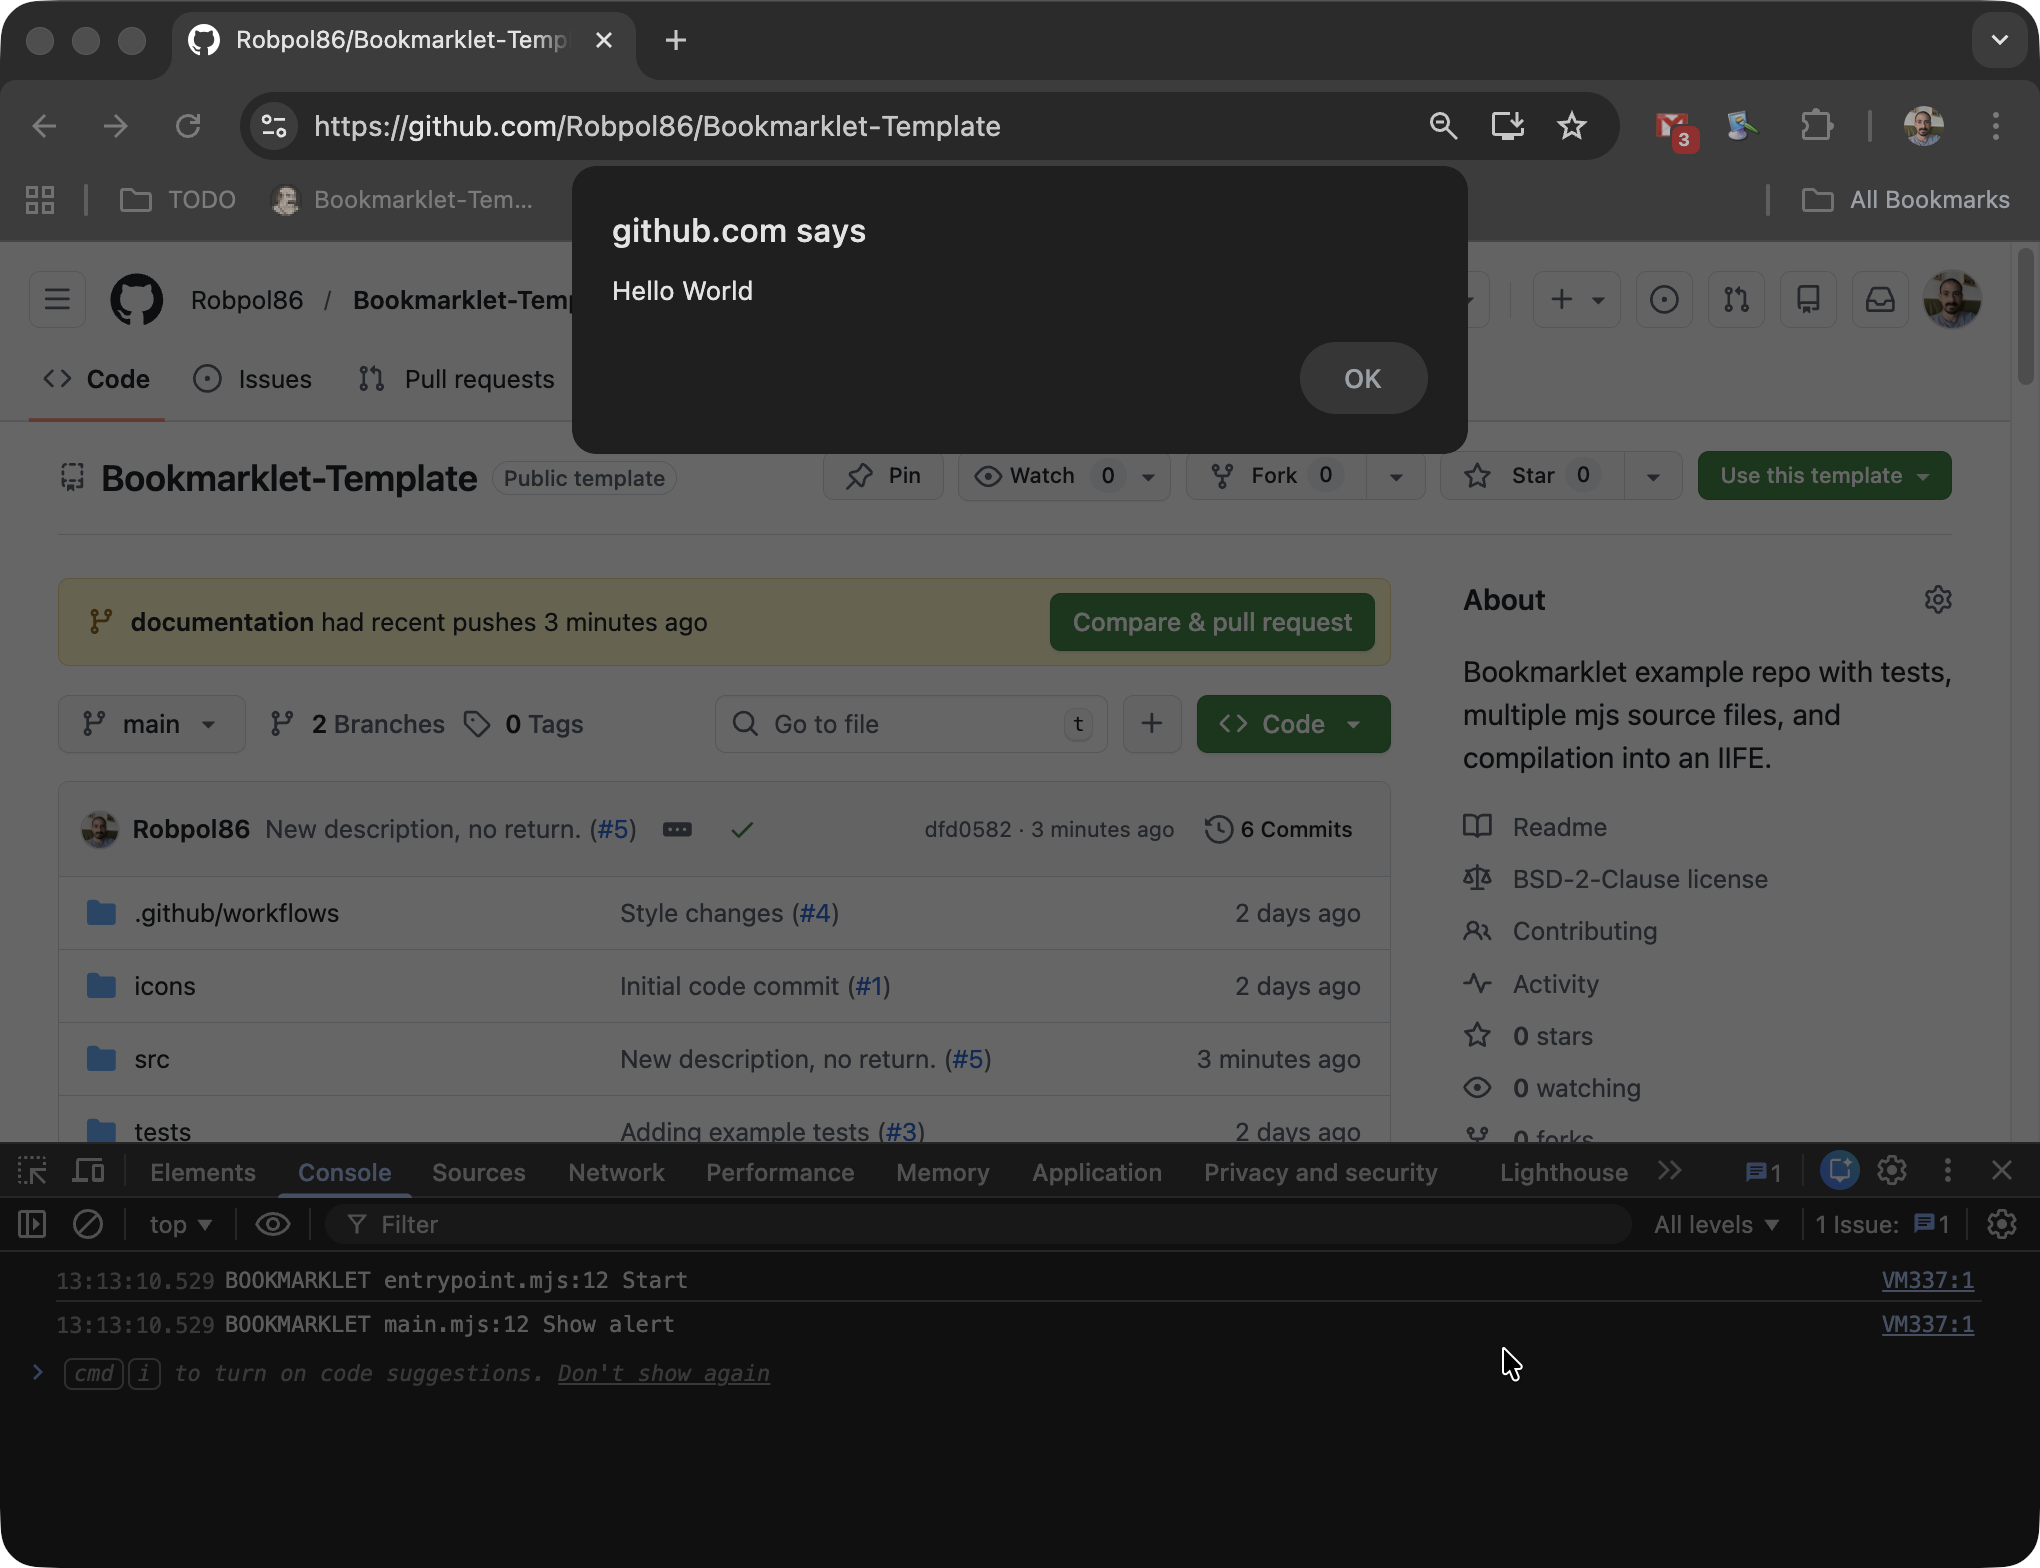
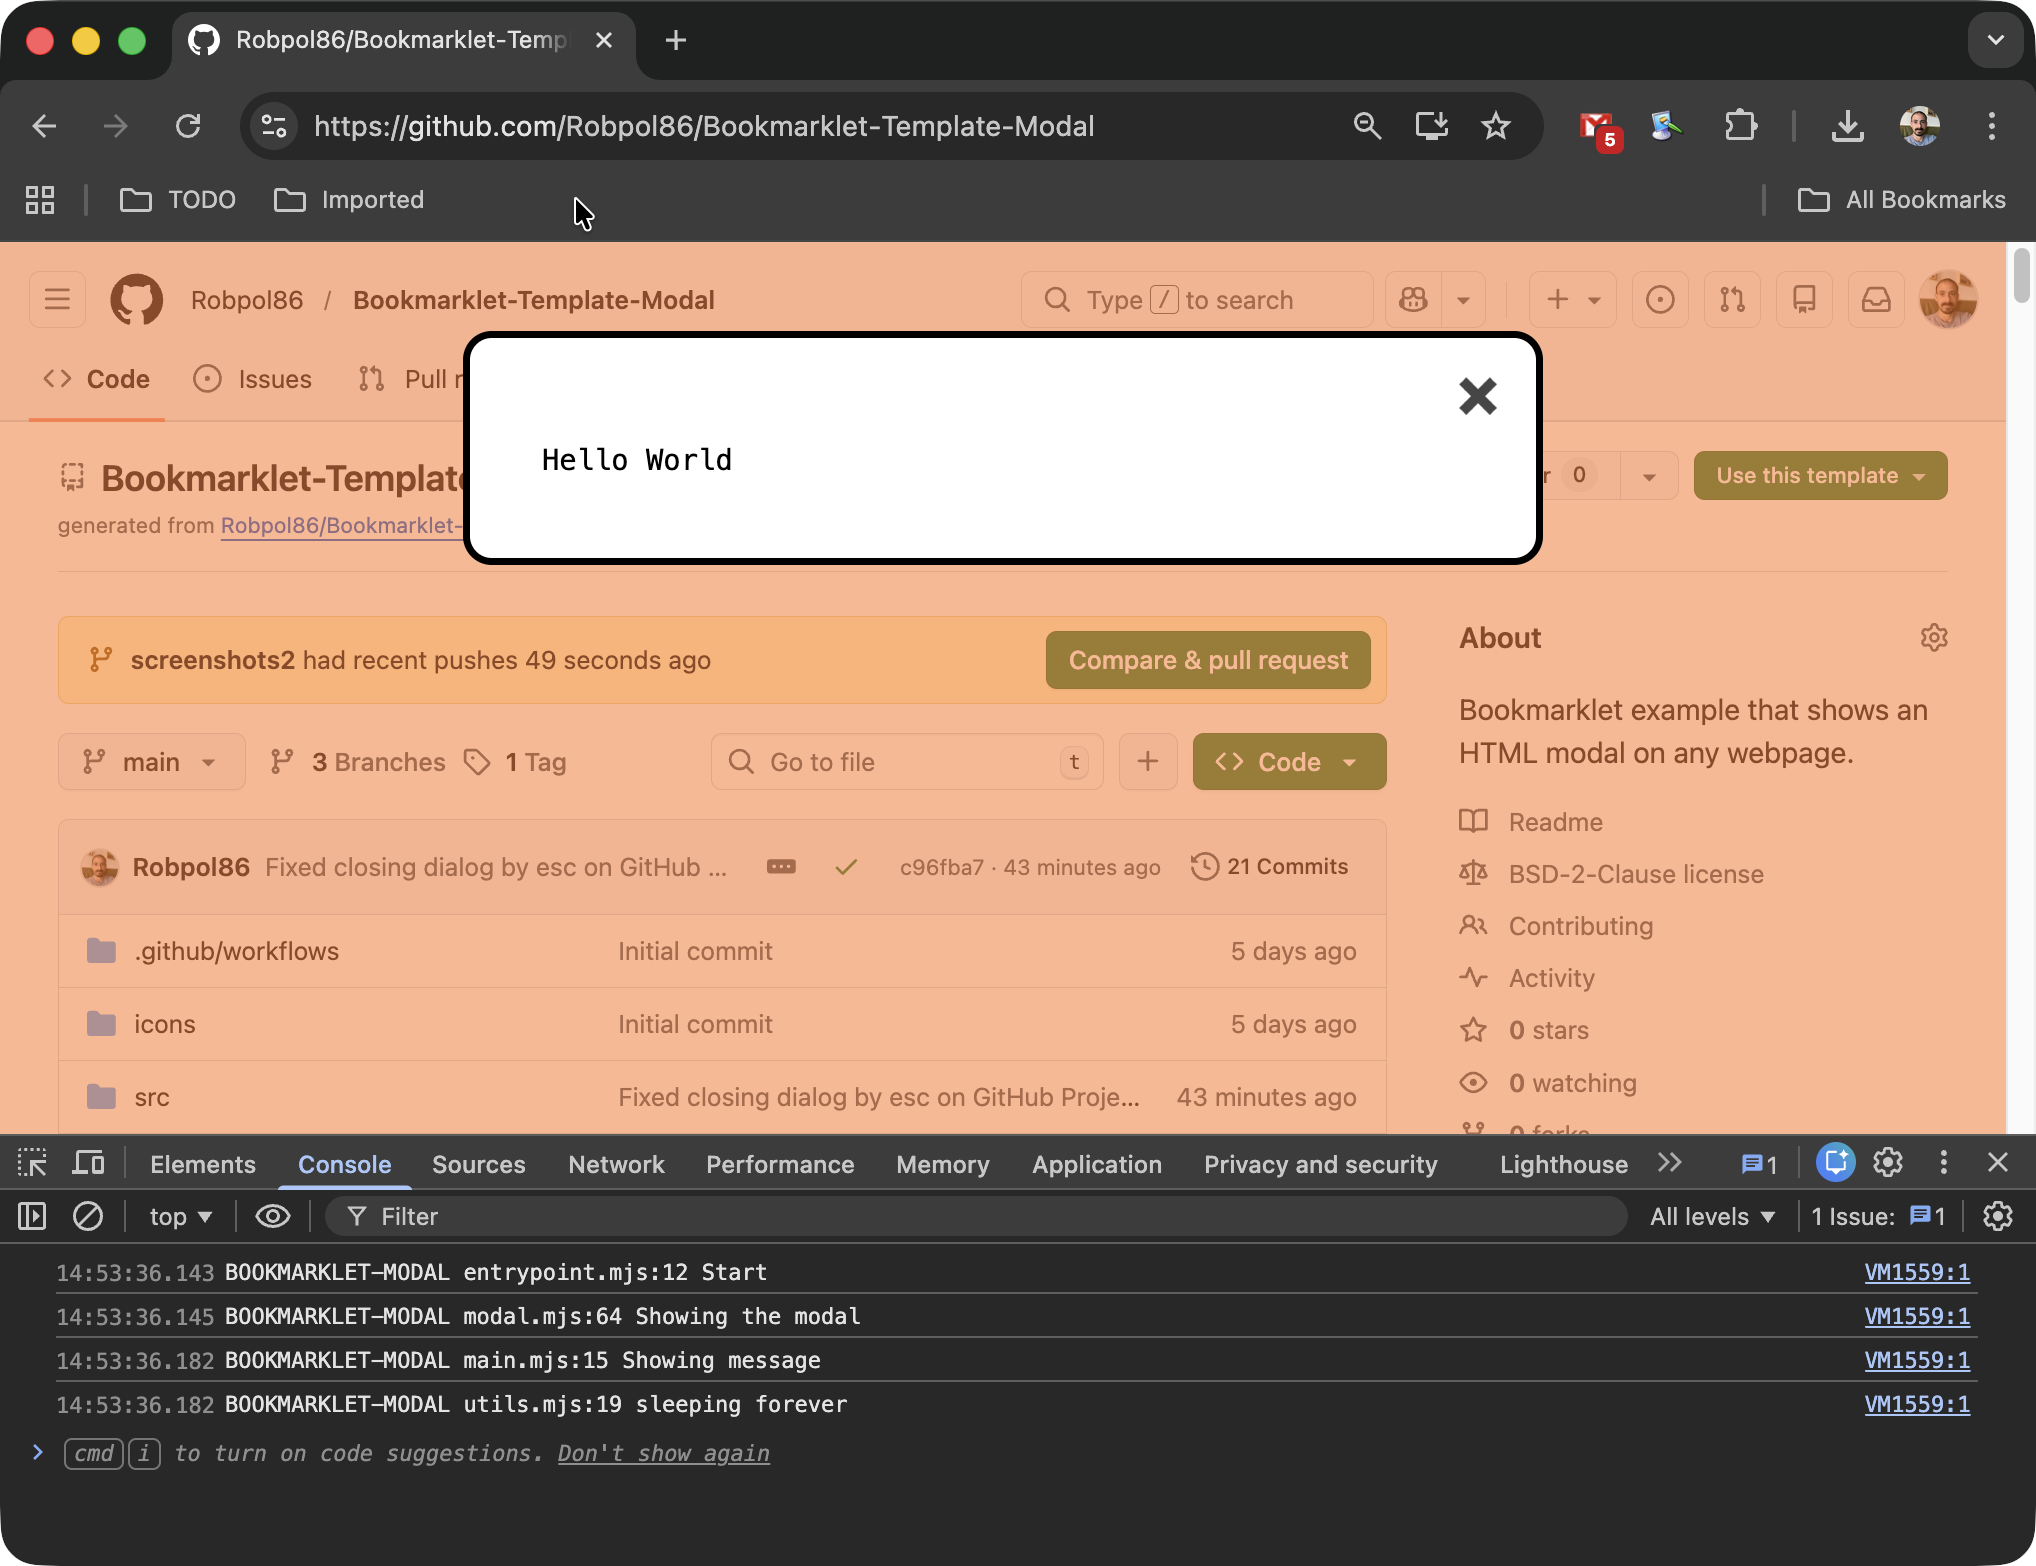
Screenshots for macOS browsers (#19)
* park

* Rewrote 3 numbered points

* prune

* showing/removing modal log message

* New for chrome macos

* Update ss

* update firefox macos

* BUG

* AI fix

* pruned

* done pruning

* chrome macos

* ff macos

* done with macos

diff --git a/src/modal.scss b/src/modal.scss
@@ -56,6 +56,7 @@ $body: "div##{$prefix}dialog-body";
     #{$closeButtonX} {
         background: none;
         border: none;
+        color: #000;
         font-size: 2rem;
         margin: 0;
         position: absolute;

diff --git a/README.md b/README.md
@@ -108,51 +108,22 @@ Some features I've included in this project are:
 For more information on developing a bookmarklet using this repo as a template read the [CONTRIBUTING.md](CONTRIBUTING.md)
 document.
 
-## Install
+## Installing the Bookmarklet
 
-There are three ways to install the bookmarklet.
+There are three ways to install the bookmarklet:
 
-### Import Bookmarks HTML Method
+1. Import the
+   [dist/bookmarklets.html](https://github.com/Robpol86/Bookmarklet-Template-Modal/releases/latest/download/bookmarklet.html)
+   file using the browser's bookmarks manager (in Chrome and Edge the bookmarklet will have its own favicon)
+2. Manually crearte a new bookmark with the contents of
+   [dist/bookmarklets.js](https://github.com/Robpol86/Bookmarklet-Template-Modal/releases/latest/download/bookmarklet.js) as
+   the URL
+3. On a webpage make the bookmarklet an `<a href="...">Bookmarklet</a>` link so the user can drag and drop it into their bookmarks
+   bar (replace `...` with the contents of
+   [dist/bookmarklets.js](https://github.com/Robpol86/Bookmarklet-Template-Modal/releases/latest/download/bookmarklet.js))
+   1. This doesn't work from a GitHub README file
 
 ![Screenshot](install-html.png?raw=true "Screenshot")
-
-The best way to install this bookmarklet for **Chrome** and **Edge** is to import the bookmarks HTML file. This way the
-bookmarklet will have a favicon. Unfortunately the favicon doesn't show in other browsers.
-
-1. Download the latest `bookmarklet.html` from the [releases section](https://github.com/Robpol86/Bookmarklet-Template-Modal/releases)
-1. Import in Chrome:
-    1. In Chrome go to Bookmarks > Bookmark Manager
-    1. Click on the three dots in the upper right corner and click "Import bookmarks"
-    1. Select the downloaded `bookmarklet.html`
-    1. You'll see a new folder "Imported" in your bookmarks bar with the bookmarklet inside
-1. Import in Firefox:
-    1. In Firefox go to Bookmarks > Manage Bookmarks
-    1. In the Library window click on the import/backup button (up and down arrows) then Import Bookmarks from HTML
-    1. Select the downloaded `bookmarklet.html`
-    1. Locate **Bookmarklet-Template-Modal** in the Bookmarks Menu folder
-1. Import in Safari:
-    1. In Safari go to File > Import Browsing Data from File or Folder > Choose File or Folder
-    1. Select the downloaded `bookmarklet.html`
-    1. Locate **Bookmarklet-Template-Modal** in your bookmarks
-
-### Copy and Paste Method
-
-This method doesn't require importing, you just copy and paste the javascript "URL" into a new bookmark manually.
-
-1. Download the latest `bookmarklet.js` from the [releases section](https://github.com/Robpol86/Bookmarklet-Template-Modal/releases)
-1. Copy the contents of `bookmarklet.js` to your clipboard
-1. In Chrome:
-    1. In Chrome go to Bookmarks > Bookmark Manager
-    1. Click on the three dots in the upper right corner and click "Add new bookmark"
-    1. Type **Bookmarklet-Template-Modal** for the name and paste the contents of `bookmarklet.js` into the URL field
-1. In Firefox:
-    1. In Firefox go to Bookmarks > Manage Bookmarks
-    1. In the Library window click on the organize button (gear icon) then click "Add Bookmark"
-    1. Type **Bookmarklet-Template-Modal** for the name and paste the contents of `bookmarklet.js` into the URL field
-
-### Drag and Drop Method
-
-*This method doesn't work from a GitHub readme.*
 
 ## Usage
 
@@ -162,10 +133,8 @@ that says "Hello World".
 ## TODO
 
 - Mention based on Lucas Menezes's post: https://dev.to/lucasm/amazing-native-modal-with-just-html-meet-element-4jpl
-- Unit tests for modal.mjs and utils.mjs
 - Revisit dir structure section
 - Revisit entire README
 - New screenshots
 - codecov and README badges like my Python repos
     - Make GitHub Action step conditional on token variable being set, skip if not, don't fail
-- GitHub pages action

diff --git a/CONTRIBUTING.md b/CONTRIBUTING.md
@@ -38,7 +38,7 @@ To make a new release:
 
 1. https://github.com/Robpol86/Bookmarklet-Template-Modal/releases
 1. Draft a new release
-1. Tag > Create new tag > `vX.X.X`
+1. Tag > Create new tag > `vX.X`
 1. Set the release title
 1. Generate release notes
 1. Publish release
